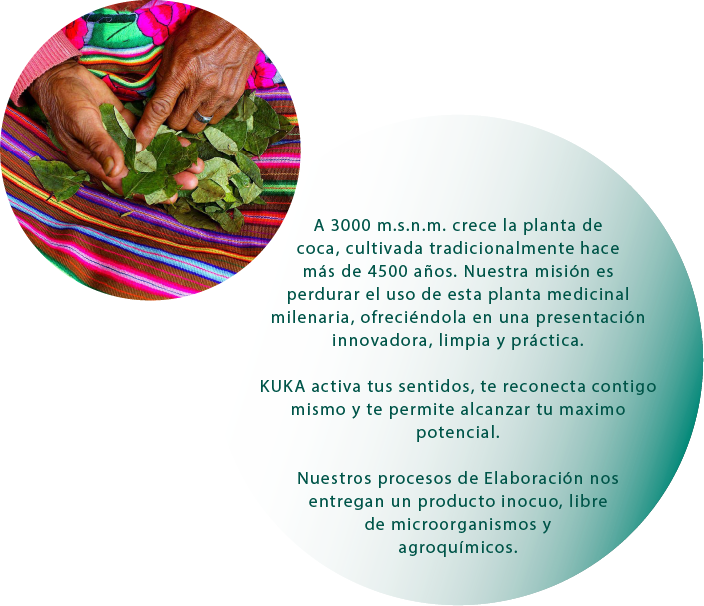
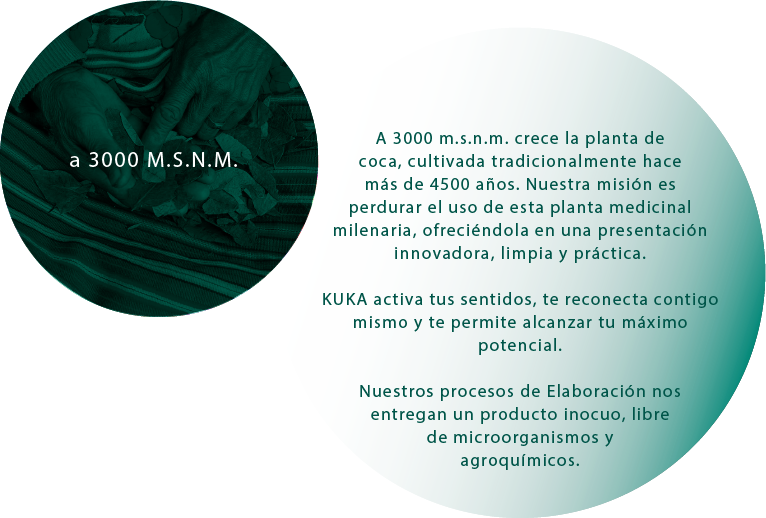
edit photos carousel

diff --git a/src/components/Introduction/index.js b/src/components/Introduction/index.js
@@ -159,8 +159,8 @@ export const Introduction = () => {
                     className='Introduction-container-bg1' 
                     bgImage={bg2} 
                     strength={150}  
-                    contentClassName={'Intro-3000-container'}>
-                <img className='Intro-3000-detail' src={IntroNutricion} />
+                    contentClassName={'Intro-nutricion-container'}>
+                <img className='Intro-nutricion-detail' src={IntroNutricion} />
                 
                 
                 </Parallax>

diff --git a/src/components/Introduction/styles.css b/src/components/Introduction/styles.css
@@ -60,9 +60,30 @@
     /* place-items: center; */
     /* margin: 18% 0%; */
     /* background-color: red; */
-
-
 }
+
+.Intro-nutricion-container{
+    left: 20%;
+    top: 5%;
+    width: 60%;
+    min-width:60% ;
+    height: 65%;
+    position: relative;
+}
+
+.Intro-nutricion-detail{
+    position: absolute;
+    top: 4%;
+    left: 20%;
+    width: 70%;
+    height: 95%;
+    min-width: 70%;
+    max-width: 70%;
+    z-index: 2;
+}
+
+
+
 /* .Intro-3000-logo{
     position: absolute;
     top: 10%;
